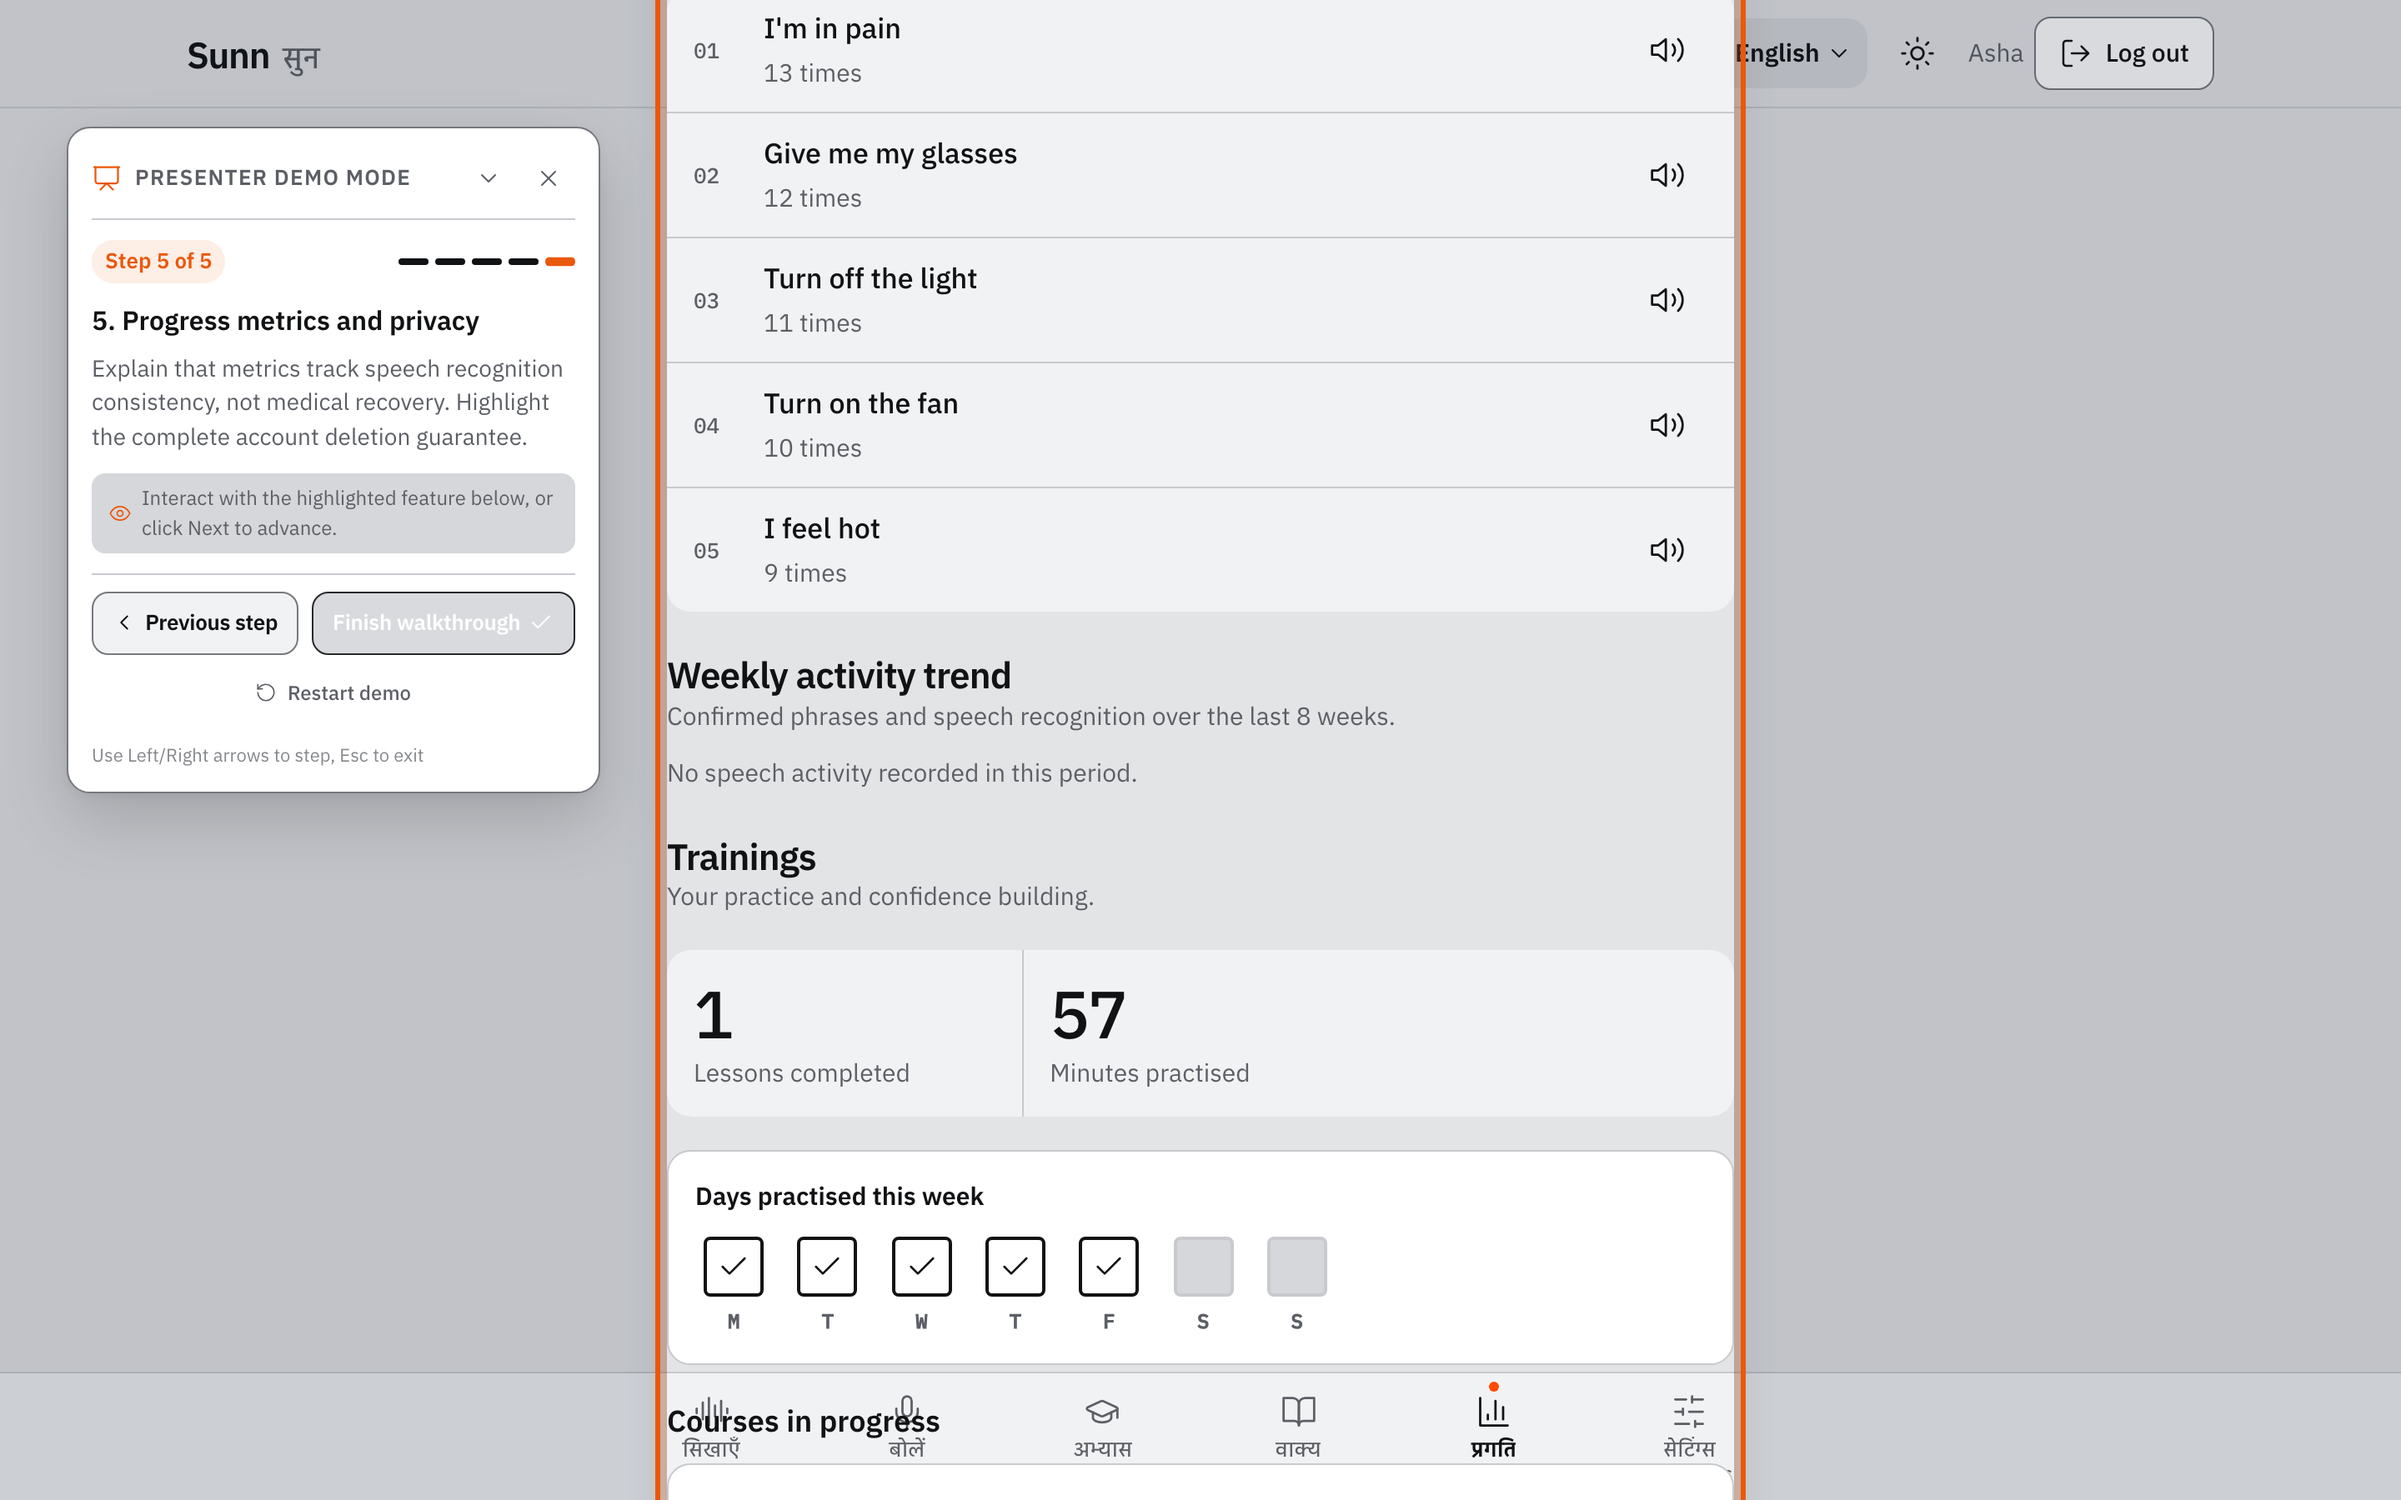
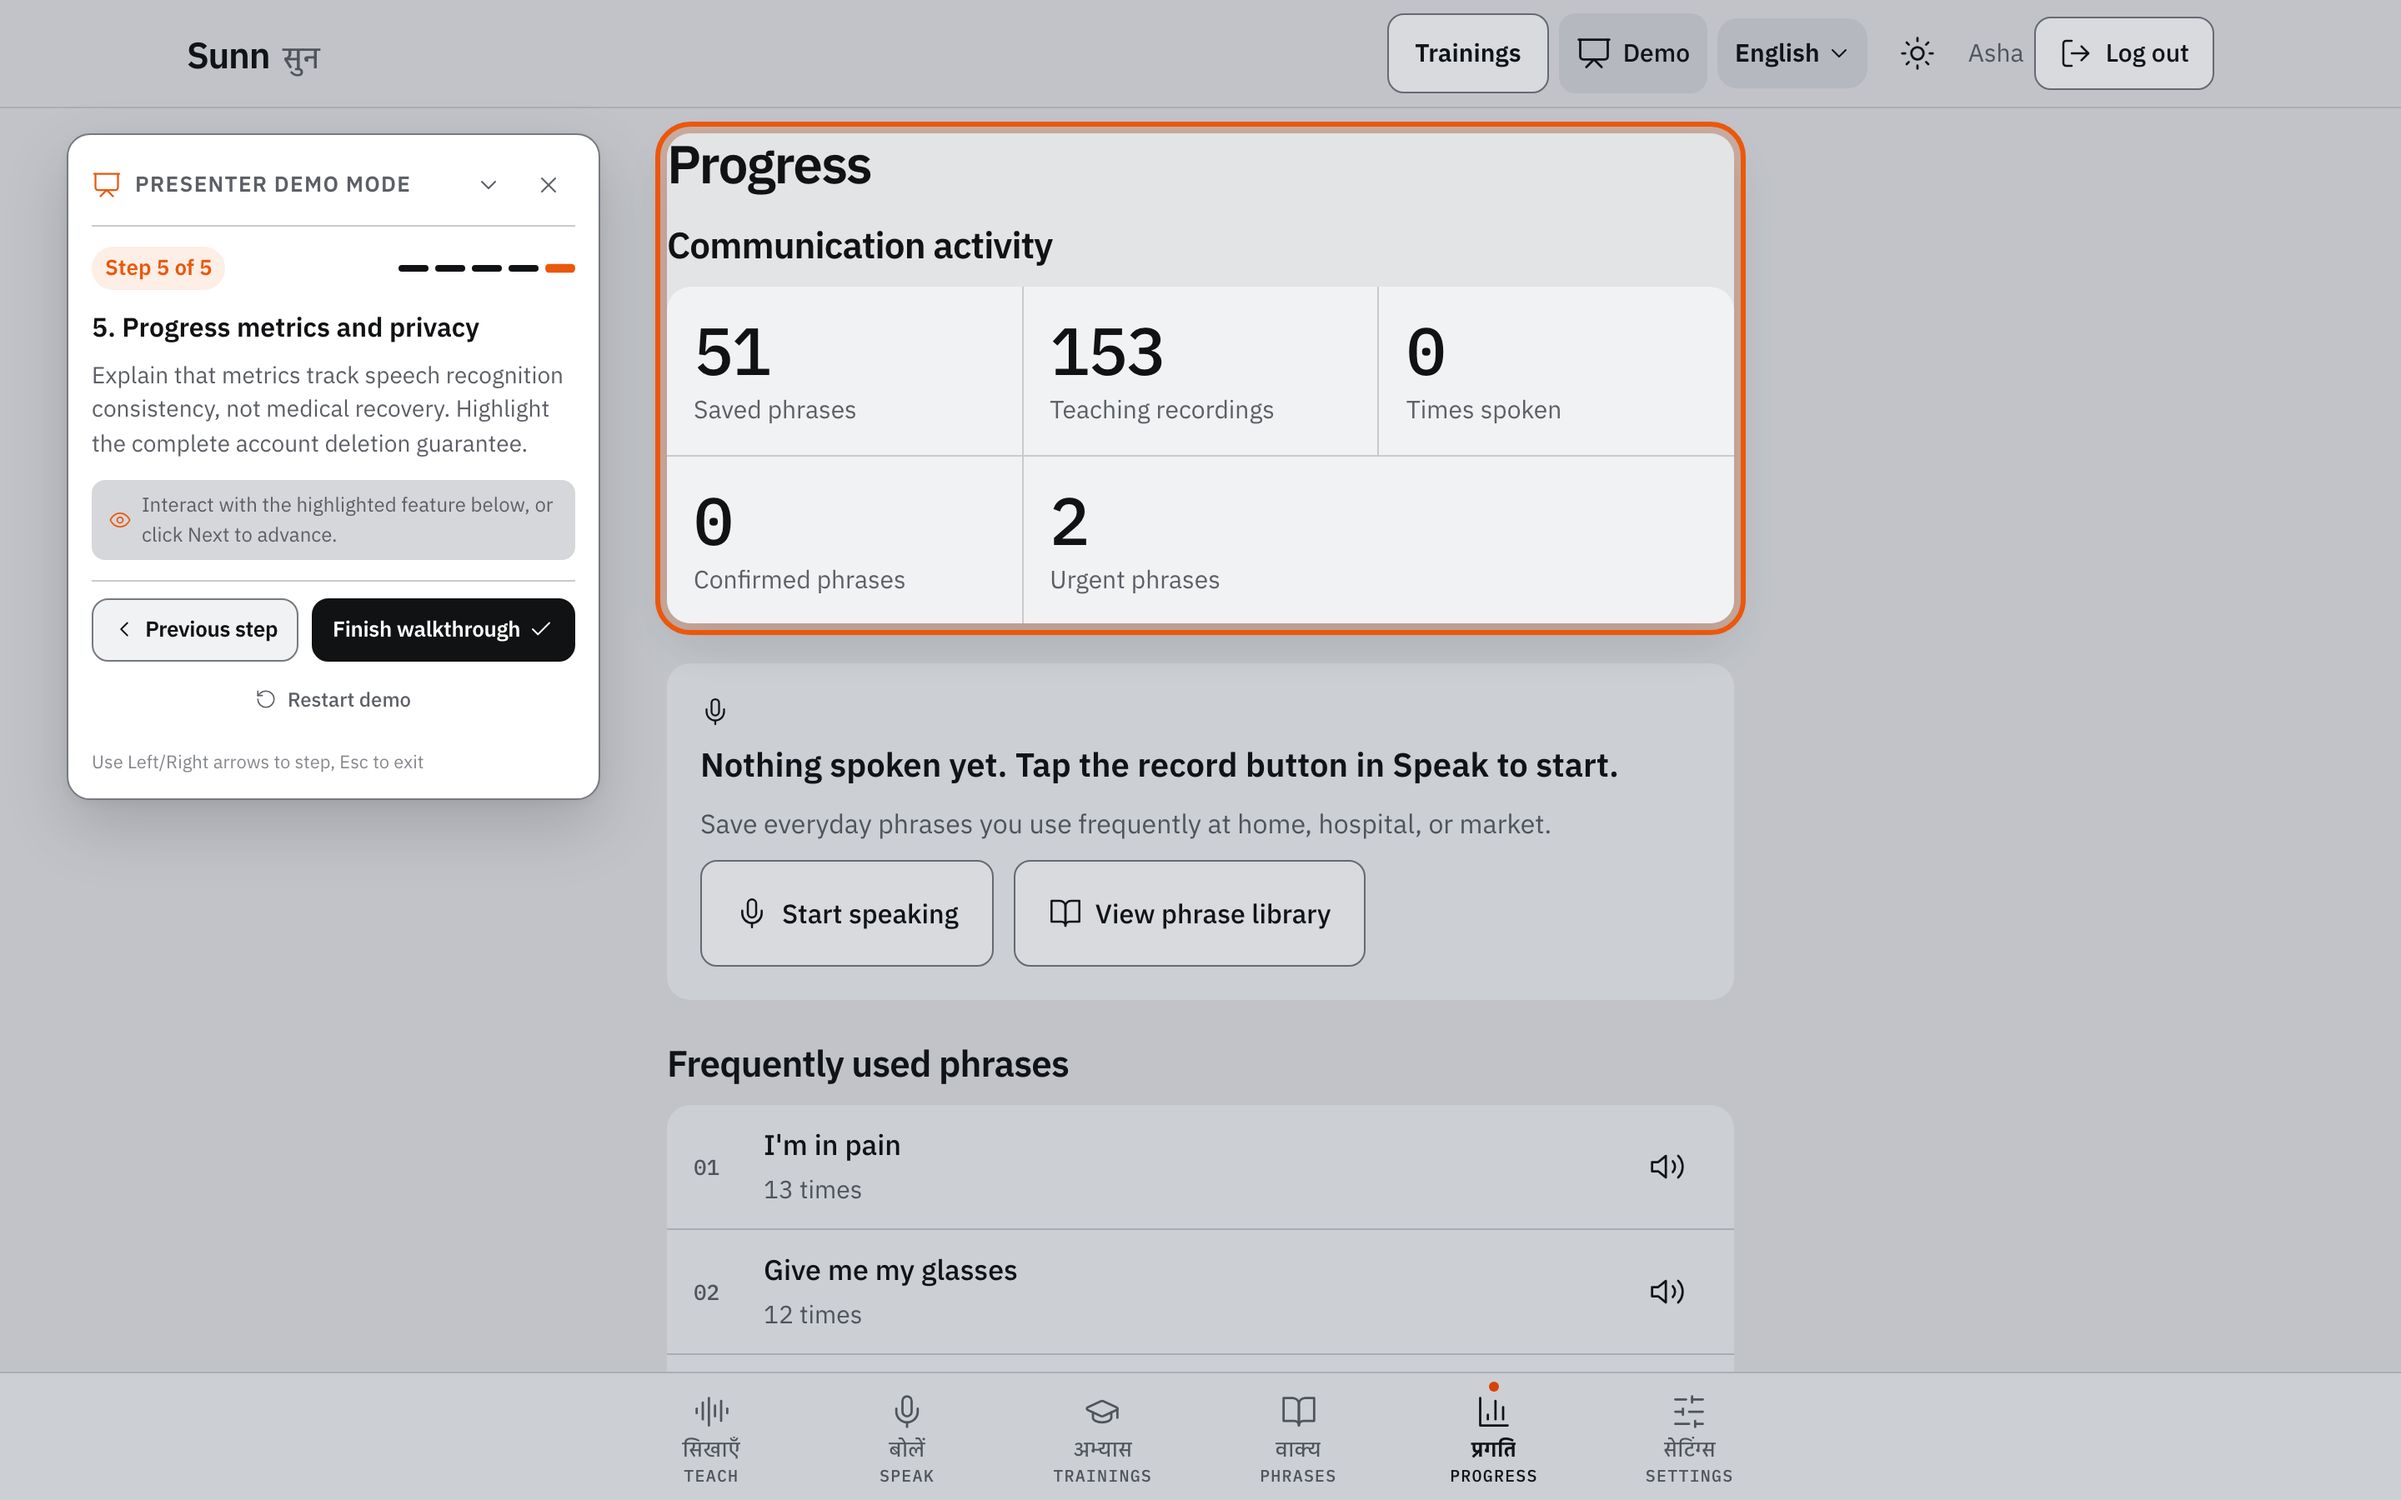
Fix presenter spotlight positioning
- Scope spotlight highlight to header controls on phrase library, speech device on speak, accessibility controls on settings, and summary metrics on progress
- Scroll spotlight target to top of visible region with single-scroll guard and header offset
- Prevent full-screen container highlighting across all tour steps

Changed region(s): [[0.0312, 0.0, 0.75, 1.0], [0.4375, 0.2178, 0.5312, 0.28], [0.5625, 0.2178, 0.6562, 0.28]]

diff --git a/web/src/PresenterBar.jsx b/web/src/PresenterBar.jsx
@@ -10,7 +10,7 @@ export const DEMO_STEPS = [
     shortKey: 'presenter.stepShort_1',
     titleKey: 'presenter.stepOnboardingTitle',
     cueKey: 'presenter.stepOnboardingCue',
-    targetSelector: '.onboarding-step, .onboarding, .screen',
+    targetSelector: '[data-tour="onboarding-step"], .onboarding-step, .onboarding, .screen',
   },
   {
     id: 'phrases',
@@ -18,7 +18,7 @@ export const DEMO_STEPS = [
     shortKey: 'presenter.stepShort_2',
     titleKey: 'presenter.stepPhrasesTitle',
     cueKey: 'presenter.stepPhrasesCue',
-    targetSelector: '.phrases-list, .phrase-card, .phrases-search, .phrases-screen',
+    targetSelector: '[data-tour="phrases-header"], .phrases-header, .phrases-screen .screen-header',
   },
   {
     id: 'speak',
@@ -26,7 +26,7 @@ export const DEMO_STEPS = [
     shortKey: 'presenter.stepShort_3',
     titleKey: 'presenter.stepSpeakTitle',
     cueKey: 'presenter.stepSpeakCue',
-    targetSelector: '.speak-device, .push-button, .readout, .speak',
+    targetSelector: '[data-tour="speak-recording"], .speak-device, [data-tour="speak-intro"], .speak-intro-card',
   },
   {
     id: 'settings',
@@ -34,7 +34,7 @@ export const DEMO_STEPS = [
     shortKey: 'presenter.stepShort_4',
     titleKey: 'presenter.stepSettingsTitle',
     cueKey: 'presenter.stepSettingsCue',
-    targetSelector: '[aria-labelledby="heading-accessibility"], #heading-accessibility, .settings-screen .group-wrap, .settings-screen',
+    targetSelector: '[data-tour="settings-accessibility"], .settings-accessibility-group, [aria-labelledby="heading-accessibility"]',
   },
   {
     id: 'progress',
@@ -42,7 +42,7 @@ export const DEMO_STEPS = [
     shortKey: 'presenter.stepShort_5',
     titleKey: 'presenter.stepProgressTitle',
     cueKey: 'presenter.stepProgressCue',
-    targetSelector: '[aria-labelledby="heading-overview"], .chart, #your-data, .progress-screen',
+    targetSelector: '[data-tour="progress-summary"], .progress-header-summary, [aria-labelledby="heading-overview"]',
   },
 ]
 
@@ -64,6 +64,7 @@ export default function PresenterBar({ onClose }) {
 
   // Spotlight target reference
   const highlightedRef = useRef(null)
+  const lastScrolledStepRef = useRef(-1)
 
   // On mount: explicitly lock to Step 1 and navigate to /app/onboarding
   useEffect(() => {
@@ -196,6 +197,7 @@ export default function PresenterBar({ onClose }) {
 
   function handleRestart() {
     freshLaunchRef.current = true
+    lastScrolledStepRef.current = -1
     setCompleted(false)
     setStepIndex(0)
     navigate(DEMO_STEPS[0].path, { viewTransition: !reducedMotion() })
@@ -216,25 +218,44 @@ export default function PresenterBar({ onClose }) {
       return
     }
 
-    const timer = setTimeout(() => {
+    let attempts = 0
+    let cancelled = false
+    let timerId = null
+
+    function findAndPosition() {
+      if (cancelled) return
       const target = document.querySelector(currentStep.targetSelector)
       if (target) {
         target.classList.add('presenter-target-highlight')
         highlightedRef.current = target
-        try {
-          target.scrollIntoView({
-            behavior: reducedMotion() ? 'auto' : 'smooth',
-            block: 'center',
-          })
-        } catch {
-          // ignore scroll errors
+        if (lastScrolledStepRef.current !== stepIndex) {
+          lastScrolledStepRef.current = stepIndex
+          try {
+            target.scrollIntoView({
+              behavior: reducedMotion() ? 'auto' : 'smooth',
+              block: 'start',
+            })
+          } catch {
+            // ignore scroll errors
+          }
         }
+        updatePosition()
+        return
       }
-      updatePosition()
-    }, 150)
+
+      attempts++
+      if (attempts < 6) {
+        timerId = setTimeout(findAndPosition, 100)
+      } else {
+        updatePosition()
+      }
+    }
+
+    timerId = setTimeout(findAndPosition, 80)
 
     return () => {
-      clearTimeout(timer)
+      cancelled = true
+      if (timerId) clearTimeout(timerId)
       if (highlightedRef.current) {
         highlightedRef.current.classList.remove('presenter-target-highlight')
         highlightedRef.current = null

diff --git a/web/src/Progress.jsx b/web/src/Progress.jsx
@@ -232,9 +232,26 @@ export default function Progress() {
 
   return (
     <section className="screen progress-screen">
-      <h1 className="large-title">{t('progress.title')}</h1>
+      <div className="progress-header-summary" data-tour="progress-summary">
+        <h1 className="large-title">{t('progress.title')}</h1>
 
-      <Alert error={error} />
+        <Alert error={error} />
+
+        {/* Overview: the big numbers */}
+        <section className="progress-section" aria-labelledby="heading-overview">
+          <h2 id="heading-overview" className="title-2">
+            {t('progress.overviewHeading')}
+          </h2>
+          <div className="metrics">
+            {metrics.map(([key, value]) => (
+              <div className="metric-card" key={key}>
+                <span className="metric-value">{value}</span>
+                <span className="metric-label">{t(key)}</span>
+              </div>
+            ))}
+          </div>
+        </section>
+      </div>
 
       {stats?.recognitions === 0 && (
         <article className="status-card" aria-labelledby="empty-progress-title">
@@ -251,21 +268,6 @@ export default function Progress() {
           </div>
         </article>
       )}
-
-      {/* Overview: the big numbers */}
-      <section className="progress-section" aria-labelledby="heading-overview">
-        <h2 id="heading-overview" className="title-2">
-          {t('progress.overviewHeading')}
-        </h2>
-        <div className="metrics">
-          {metrics.map(([key, value]) => (
-            <div className="metric-card" key={key}>
-              <span className="metric-value">{value}</span>
-              <span className="metric-label">{t(key)}</span>
-            </div>
-          ))}
-        </div>
-      </section>
 
       {/* How often the first suggestion was the one */}
       {Boolean(stats?.confirmed) && (

diff --git a/web/src/ui/Row.jsx b/web/src/ui/Row.jsx
@@ -17,9 +17,9 @@ export function Toggle({ on, labelledBy, describedBy, ...props }) {
 
 // A plate of rows: a title above, rows with hairlines between, a footnote below. With bare,
 // the children bring their own plate (a radiogroup of Choices, a form).
-export function Group({ title, titleId, footer, footerId, bare, children }) {
+export function Group({ title, titleId, footer, footerId, bare, className, children, ...props }) {
   return (
-    <div className="group-wrap">
+    <div className={`group-wrap ${className || ''}`} {...props}>
       {title && (
         <h2 className="group-title" id={titleId}>
           {title}

diff --git a/web/src/styles.css b/web/src/styles.css
@@ -2492,6 +2492,12 @@ input:focus-visible + .file-pick {
 
 /* ---------- Progress ---------- */
 
+.progress-header-summary {
+  display: flex;
+  flex-direction: column;
+  gap: 16px;
+}
+
 .progress-section {
   display: grid;
   gap: 12px;
@@ -3326,6 +3332,7 @@ input:focus-visible + .file-pick {
 .presenter-target-highlight {
   position: relative !important;
   z-index: 40 !important;
+  scroll-margin-top: calc(var(--header-height, 4rem) + 16px) !important;
   outline: 3px solid var(--accent, #ea580c) !important;
   outline-offset: 4px !important;
   box-shadow: 0 0 0 5px rgba(234, 88, 12, 0.22),

diff --git a/web/src/Settings.jsx b/web/src/Settings.jsx
@@ -348,7 +348,13 @@ export default function Settings() {
       </Group>
 
       {/* Accessibility */}
-      <Group title={t('settings.sectionAccessibility')} titleId="heading-accessibility" footer={t('settings.touchHelp')}>
+      <Group
+        title={t('settings.sectionAccessibility')}
+        titleId="heading-accessibility"
+        footer={t('settings.touchHelp')}
+        className="settings-accessibility-group"
+        data-tour="settings-accessibility"
+      >
         <SwitchRow
           id="motion"
           title={t('settings.motionLabel')}

diff --git a/web/src/Phrases.jsx b/web/src/Phrases.jsx
@@ -481,7 +481,7 @@ export default function Phrases() {
 
   return (
     <section className="screen phrases-screen">
-      <header className="screen-header">
+      <header className="screen-header phrases-header" data-tour="phrases-header">
         <div>
           <h1 className="large-title">{t('phrases.title')}</h1>
           {totalCount > 0 && (
